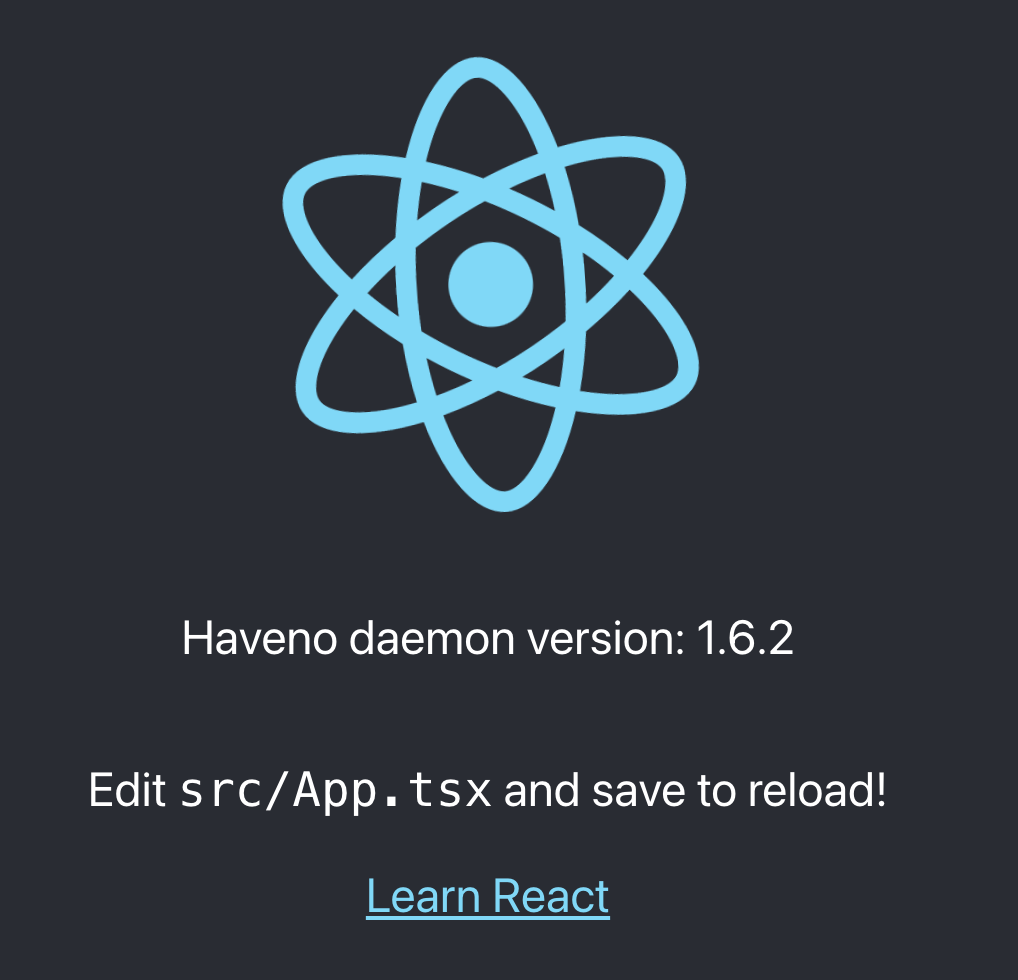
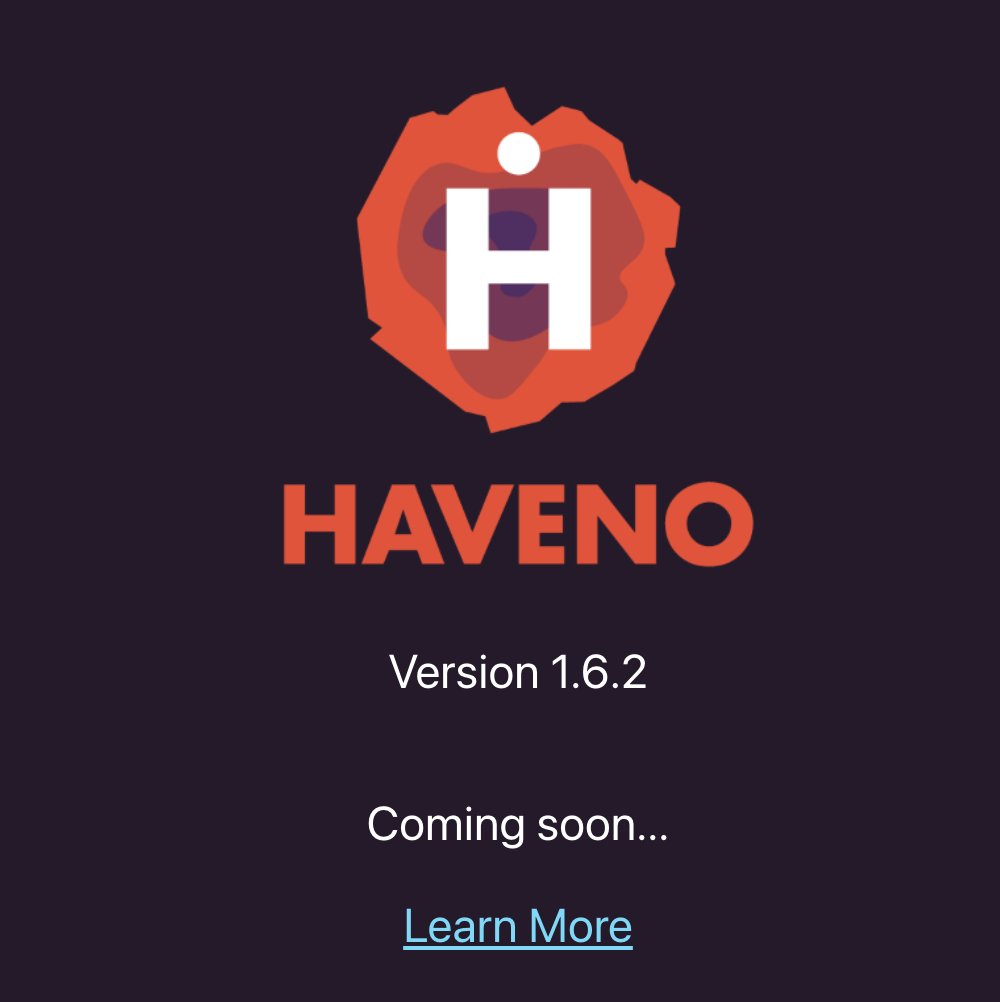
update poc image and test (#7)

diff --git a/src/App.test.tsx b/src/App.test.tsx
@@ -4,6 +4,6 @@ import App from './App';
 
 test('renders learn react link', () => {
   render(<App />);
-  const linkElement = screen.getByText(/learn react/i);
+  const linkElement = screen.getByText(/learn more/i);
   expect(linkElement).toBeInTheDocument();
 });

diff --git a/README.md b/README.md
@@ -15,7 +15,7 @@ This application is a basic [create-react-app](https://github.com/facebook/creat
 7. Confirm that the Haveno daemon version is displayed (1.6.2)
 
 <p align="center">
-    <img src="haveno-ui-poc.png" width="400" height="400"/><br>
+    <img src="haveno-ui-poc.png" width="500"/><br>
 </p>
 
 ## How to Update the Protobuf Client
